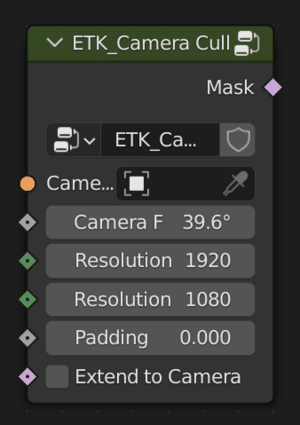
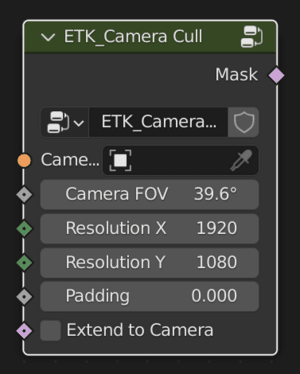
Added ETK_Grid example, inserted copy from Erin's document.

diff --git a/tools/nimage.py b/tools/nimage.py
@@ -3,6 +3,10 @@
 
 # nimage --- node image processing.
 #
+# DEPENDS ON:
+#    imagemagick (convert)
+#    pngquant
+#
 # Simplify, as best possible, the process of creating node images for
 # the documentation. I've found no trivial way. This script is a
 # front-end to imagemagick's convert utility that will copy a snapped
@@ -56,19 +60,20 @@ def subArgs():
     return args
 
 
+# Images are processed by piping the output from an imagemagick resize
+# into the pngquant utility to compress the filesize.
 def main(args):
     imagepath = pathlib.Path(os.path.expanduser(args.in_folder))
     for image in list(imagepath.glob('./*.png')):
         base = 'nodes-{0}'.format(os.path.basename(image).replace('-','_'))
         outimage = os.path.join(args.out_folder, base)
         print('Converting {0} -> {1} '.format(image, base))
-        p1 = subprocess.Popen(['convert',
-                               image,
-                               '-resize',
-                               '{0}x'.format(args.width),
-                               '-'
-                               ],
-                              stdout=subprocess.PIPE)
+        convert = ['convert', image]
+        if args.width > 0:
+            convert.append('-resize')
+            convert.append('{0}x'.format(args.width))
+        convert.append('-')
+        p1 = subprocess.Popen(convert, stdout=subprocess.PIPE)
         p2 = subprocess.Popen(['pngquant',
                                '--strip',
                                '--quality',

diff --git a/ref_manual/conf.py b/ref_manual/conf.py
@@ -33,9 +33,8 @@ extensions = [
 
 # .. todo::     - adds a todo item
 # .. todolist:: - generates a list of todos
-todo_include_todos = False
-# todo_include_todos = False
-# todo_emit_warnings = False
+todo_include_todos = True
+# todo_emit_warnings = True
 # todo_link_only = False
 
 # If true, the ReST sources are included in the HTML build as _sources/name
@@ -95,8 +94,12 @@ if html_theme == "sphinx_rtd_theme":
 # so a file named "default.css" will overwrite the builtin "default.css".
 html_static_path = ['_static']
 
-rst_epilog = """
+rst_prolog = """
 .. |ETK_VERSION| replace:: %s
+""" % etk_version
+
+rst_epilog = """
+.. |ETK_ZIPFILE| replace:: ETK_core-%s.zip
 """ % etk_version
 
 #html_logo = "images/etk-logo.svg"

diff --git a/ref_manual/nodes/generators/grid.rst b/ref_manual/nodes/generators/grid.rst
@@ -10,27 +10,82 @@
 
    The ETK_Grid node.
 
-.. todo:: ETK_Grid node description.
+The **Grid** node outputs a 3D grid. It can be used to create a plane or a
+2D grid as well but if a 3D grid is required it can do that. Rather
+than a subdivided cube which just has points on the surface, the **Grid**
+node will generate points throughout the volume as well.
 
 
 Inputs
 =======
 
-Input1
-   Description of Input1
+X Count
+    Integer value for number of vertices in the X axis.
+
+Y Count
+    Integer value for number of vertices in the Y axis.
+
+Z Count
+    Integer value for number of vertices in the Z axis.
+
+Size
+    The overall size of the grid in metres.
+
+Use Spacing?
+    Toggle to change the **Size** from overall size to the spacing between
+    points.
+
+Randomise
+    Maximum distance to randomise position by.
+
+Seed
+     The seed for the randomisation.
+
+Centred?
+    A toggle to choose if the grid is centred on the origin or aligned
+    on the bottom left corner.
+
 
 Properties
 ===========
 
-This node has no properties
+This node has no properties.
 
 Outputs
 ========
 
-Output1
-   Description of Output1
+Geometry
+    The generated geometry.
+
+Size
+    The total number of points generated.
+
+Index
+    An attribute containing the index for each point (eg. 0, 1, 2,
+    3...).
+
+.. figure:: /images/nodes-grid_example_render.png
+   :width: 400
+   :align: right
+
+X Fac
+    A 0-1 gradient across the points in the X axis.
+
+Y Fac
+    A 0-1 gradient across the points in the Y axis.
+
+Z Fac
+    A 0-1 gradient across the points in the Z axis.
+
 
 Example Usage
 ==============
 
-.. todo:: Add example for ETK_Grid
+This example builds a 3D grid out of which the inside points in X and
+Z are removed to form a hollow box of icospheres.
+
+.. figure:: /images/nodes-grid_example.png
+   :width: 800
+   :align: center
+
+   Node group for **Grid** example (click to enlarge).

diff --git a/ref_manual/nodes/masks/camera_cull.rst b/ref_manual/nodes/masks/camera_cull.rst
@@ -10,25 +10,57 @@
 
    The ETK_Camera Cull node.
 
-.. todo:: ETK_Camera Cull node description.
+The **Camera Cull** node handles culling points to the view area, also
+called `Frustum Culling <https://en.wikipedia.org/wiki/Viewing_frustum>`_.
+The node requires a camera object to function
+as the culling is calculated based on the location and rotation of the
+camera.
 
+The node works both with the vertices of the object or with points
+generated by a :ref:`etk.utilities.point_distribute` node. The two
+outputs contain the points inside and outside the view region of the
+camera.
+
+For any special transforms you want to do based on proximity to the
+edge of the view, use the *Region* attribute output. A gradient towards
+the middle of view starting at 0 on the edges.
+
+.. todo:: Fix reference for Region attribute above?
 
 Inputs
 =======
 
-Input1
-   Description of Input1
+Camera
+   Select the active camera object.
+
+Camera FOV
+   Input the camera’s Field of View (not the focal length).
+
+Resolution X
+   The render output width.
+
+Resolution Y
+   The render output height.
+
+Padding
+    How far beyond the view to include points.
+
+Extend to Camera?
+    Toggles off the Y- clipping of points. Useful for lower angles
+    where instances might pop into close view.
+
 
 Properties
 ===========
 
-This node has no properties
+This node has no properties.
 
 Outputs
 ========
 
-Output1
-   Description of Output1
+Mask
+   Description of Mask
+
 
 Example Usage
 ==============

diff --git a/ref_manual/getting_started/installation.rst b/ref_manual/getting_started/installation.rst
@@ -2,3 +2,18 @@
 
 Installation
 ============
+
+The add-on can be installed like any other Blender add-on. To install
+simply navigate to the Add-on Preferences window and click “Install”.
+Then navigate to the |ETK_ZIPFILE| file and select “Install
+Add-on”. Once installed, be sure to enable the addon.
+
+The way we’ve made the addon means that it will import all the nodes
+when you open Blender, start a new file or load a file. This prevents
+any duplicate data-blocks being created so whenever you add a group
+from the menu, it will be linked to all the others of the same type.
+
+In the future we may be able to only import nodes as they’re required
+but with this |ETK_VERSION| release, this is how we’re doing it (There are
+complications with multi-layer groups which will be resolved in future
+updates thanks to additional nodes in Blender 3.X).
